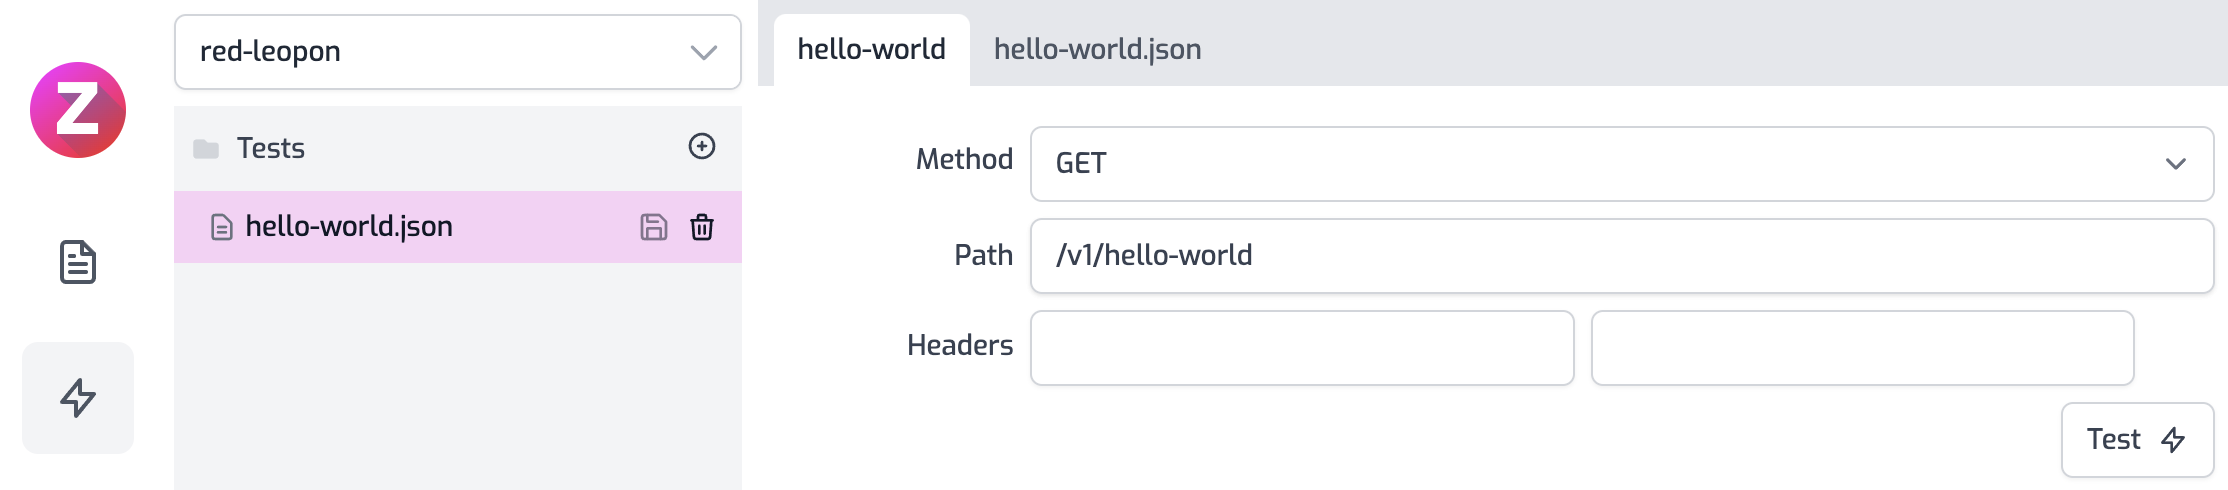
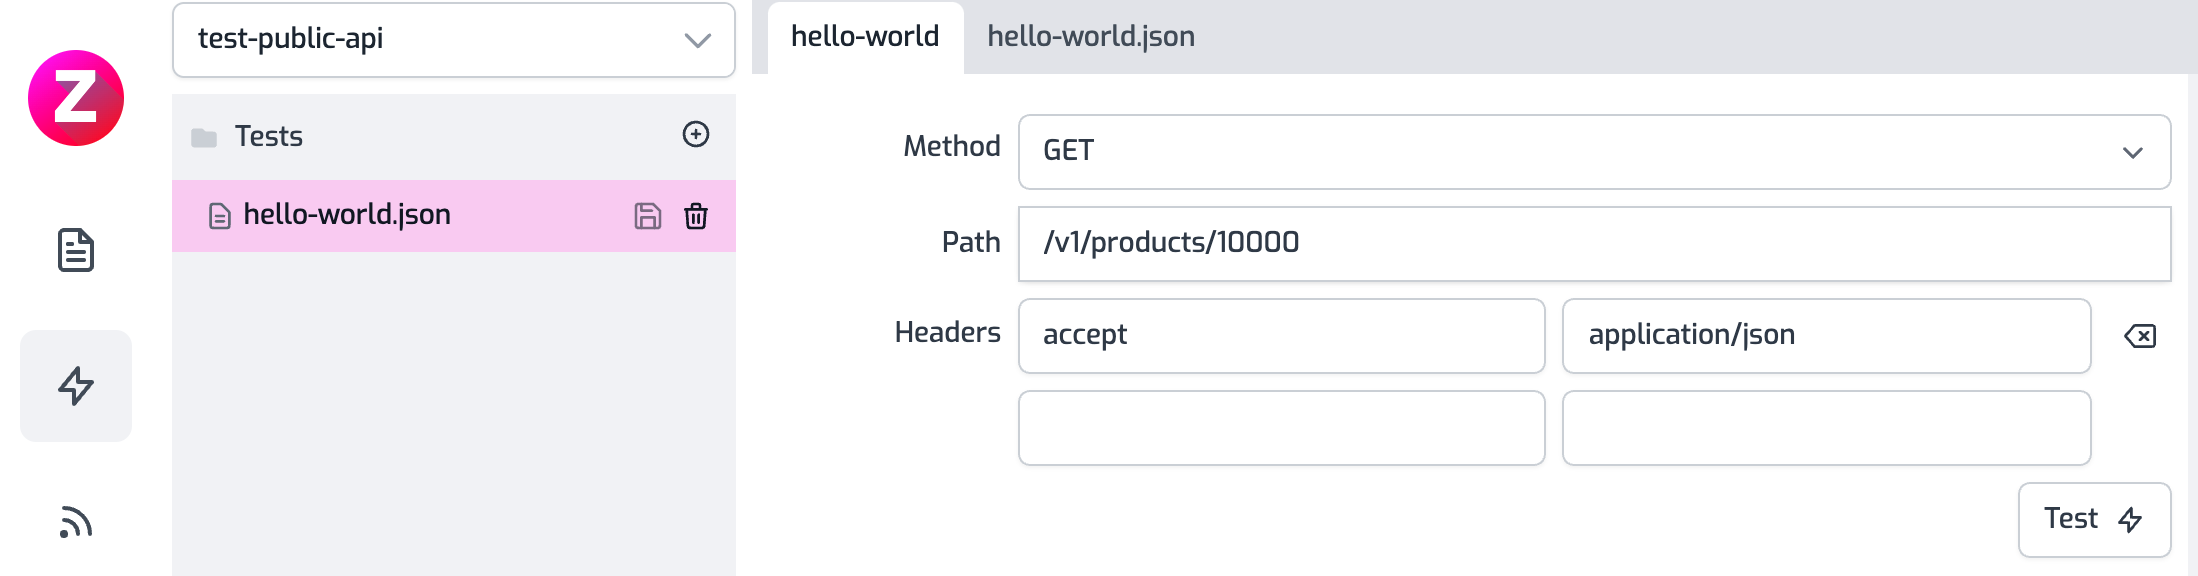
Fixing getting started for public api (#2)

diff --git a/articles/quickstarts/proxy-public-api.md b/articles/quickstarts/proxy-public-api.md
@@ -10,7 +10,7 @@ layer over SaaS APIs. Choose your getting started guide:
 
 <QuickstartPicker />
 
-Let's proxy the sample e-commerce API at `https://ecommerce-api.zuplo.com` with
+Let's proxy the sample e-commerce API at `https://ecommerce-api.zuplo.io` with
 a Zuplo gateway in 4 easy steps.
 
 ## 1
@@ -19,7 +19,7 @@ Open the **routes.json** file and add a new route.
 
 ![Untitled](/media/getting-started/add-route.png)
 
-Change the **path** of the new route to be `/products/(.*)` - this uses a
+Change the **version** to be `v1` and the **path** of the new route to be `/products/(.*)` - this uses a
 wildcard `(.*)` to match anything after `/products/`.
 
 ![Untitled](/media/getting-started/path.png)
@@ -27,7 +27,7 @@ wildcard `(.*)` to match anything after `/products/`.
 ## 2
 
 Set the mode of the **Request Handler** to be **URL Rewrite** and the rewrite
-path to be `https://ecommerce-api.zuplo.com/products/${params[0]}`. A parameter
+path to be `https://ecommerce-api.zuplo.io/v1/products/${params[0]}`. A parameter
 `0` matches the wildcard on the incoming URL.
 
 ![Untitled](/media/getting-started/rewrite.png)
@@ -35,7 +35,7 @@ path to be `https://ecommerce-api.zuplo.com/products/${params[0]}`. A parameter
 ## 3
 
 Use the route tester at the top of the screen to check your re-write logic. Open
-the route tester (top right) and set the path to be `/v1/products/1000`. Verify
+the route tester (top right) and set the path to be `/v1/products/10000`. Verify
 that your route was matched and the URL re-written appropriately.
 
 ![Untitled](/media/getting-started/route-tester.png)
@@ -45,14 +45,13 @@ that your route was matched and the URL re-written appropriately.
 ## 4
 
 Invoke your API using the Test Console. Click on the lightning tab and select
-the first file. Change the path to `/v1/todos/1` and hit **Test**.
+the first file. Change the path to `/v1/products/10000` and hit **Test**.
 
 ![Untitled](/media/getting-started/test-client.png)
 
 ## Congratulations
 
-You should see the results of your query. Try it five more times to see if the
-results change thanks to your rate limiter.
+You should see the results of the product with `id:10000`.
 
 Why not try one of the other getting started guides (above) or some of the
 examples in our documentation:
